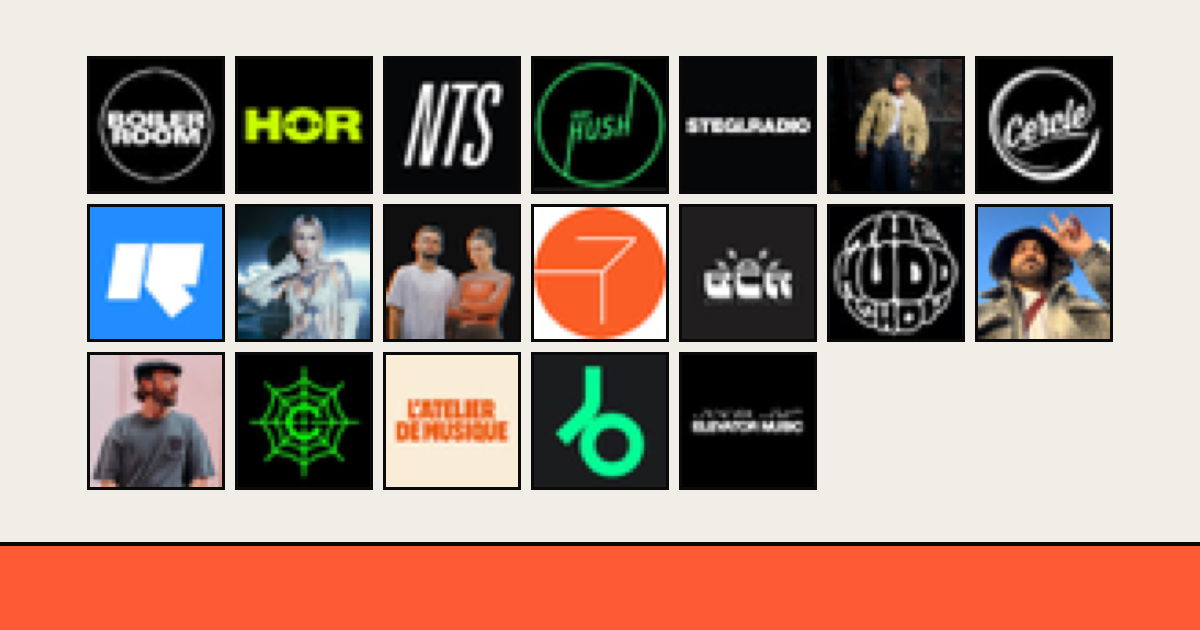
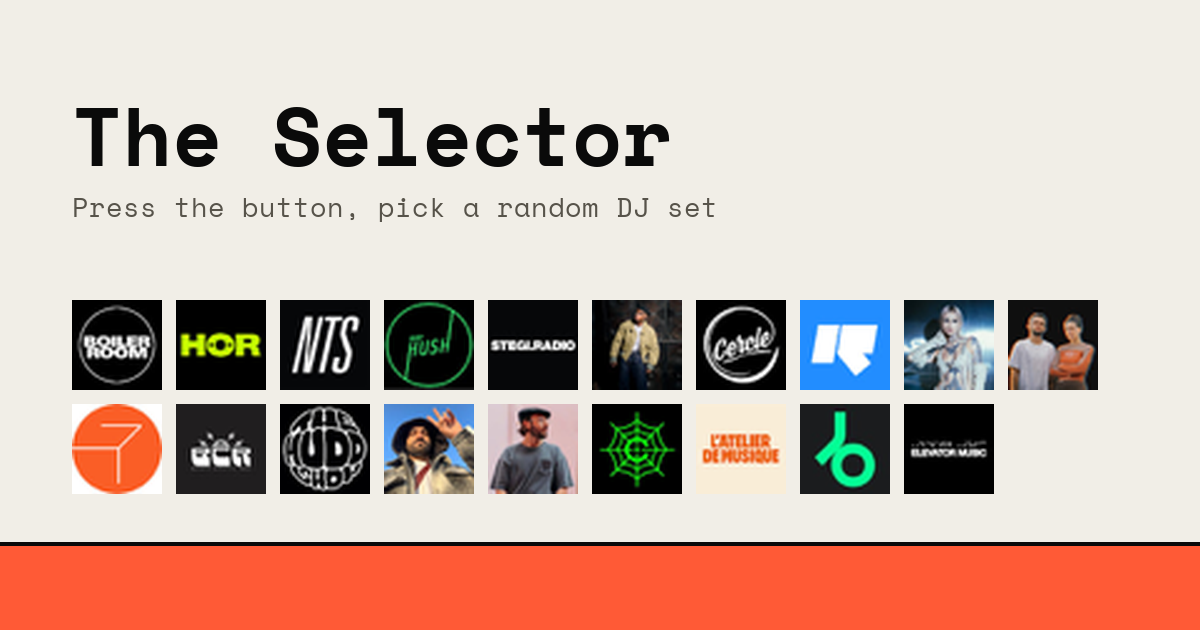
Put words on the Selector share card
The card was a wall of channel logos and nothing else. In a feed that
reads as decoration: the only words came from og:title, as a separate
field, so the image itself never said what it was.

It now carries "The Selector" and "Press the button, pick a random DJ
set" in Space Mono, the site's own mono face, over a smaller logo wall.

Rewritten in Python because the Node version hand-wrote a BMP and had no
way to draw text at all. Pillow reads the PNG logos directly, so the
sips round trip goes too, and dropping the tiles from 132px to 90px
actually helps: the source logos are 36px, so this is a 2.5x upscale
rather than 3.7x.

Space Mono is fetched into a gitignored cache rather than vendored. The
site already serves it from Google Fonts and the only artifact this
script produces, the PNG, is committed.

diff --git a/scripts/build-og-selector.py b/scripts/build-og-selector.py
@@ -1,0 +1,106 @@
+"""Compose the /selector Open Graph image.
+
+    python3 scripts/build-og-selector.py   ->  img/selector/selector-og.png
+
+Replaces the Node version, which hand-wrote a BMP because it had no way to
+draw text: a share card that says nothing reads as decoration in a feed, and
+the title only arrives as a separate meta field. Pillow gives us real font
+rendering, so the card can carry its own name and promise.
+
+Space Mono is the site's mono face. It is fetched into a gitignored cache
+rather than vendored, because the site serves it from Google Fonts and the
+only thing this script produces, the PNG, is committed. Licence: OFL 1.1.
+"""
+
+import os
+import re
+import subprocess
+import sys
+import unicodedata
+
+from PIL import Image, ImageDraw, ImageFont
+
+W, H = 1200, 630
+MARGIN = 72
+BAR = 84                     # acid bar across the bottom
+TILE, GAP = 90, 14
+ROWS = (10, 9)               # logos per row
+
+PAPER = (241, 238, 231)
+INK = (10, 10, 10)
+ACID = (255, 90, 54)
+MUTED = (87, 83, 74)
+
+TITLE = "The Selector"
+CAPTION = "Press the button, pick a random DJ set"
+
+FONT_CACHE = ".cache/fonts"
+FONTS = {
+    "bold": ("SpaceMono-Bold.ttf",
+             "https://github.com/googlefonts/spacemono/raw/main/fonts/ttf/SpaceMono-Bold.ttf"),
+    "regular": ("SpaceMono-Regular.ttf",
+                "https://github.com/googlefonts/spacemono/raw/main/fonts/ttf/SpaceMono-Regular.ttf"),
+}
+
+
+def font(weight, size):
+    name, url = FONTS[weight]
+    path = os.path.join(FONT_CACHE, name)
+    if not os.path.exists(path):
+        os.makedirs(FONT_CACHE, exist_ok=True)
+        print(f"fetching {name}")
+        if subprocess.call(["curl", "-sfL", url, "-o", path]) != 0:
+            sys.exit(f"could not fetch {name} from {url} (offline?)")
+    return ImageFont.truetype(path, size)
+
+
+def slug(value):
+    value = unicodedata.normalize("NFKD", value.lower())
+    value = "".join(c for c in value if not unicodedata.combining(c))
+    return re.sub(r"^-|-$", "", re.sub(r"[^a-z0-9]+", "-", value))
+
+
+def broadcasters():
+    """The channel list lives in selector-channels.mjs; read the names out of it
+    rather than keeping a second copy here that can drift."""
+    source = open("selector-channels.mjs", encoding="utf-8").read()
+    # names are single-quoted except where the name itself contains an
+    # apostrophe ("L'Atelier de Musique"), so match on the opening quote
+    names = [m[1] for m in re.findall(r"""broadcaster:\s*(['"])(.*?)\1""", source)]
+    seen = []
+    for name in names:
+        if name not in seen:
+            seen.append(name)
+    return seen
+
+
+def main():
+    card = Image.new("RGB", (W, H), PAPER)
+    draw = ImageDraw.Draw(card)
+
+    draw.text((MARGIN, 74), TITLE, font=font("bold", 82), fill=INK)
+    draw.text((MARGIN, 186), CAPTION, font=font("regular", 27), fill=MUTED)
+
+    logos = [f"img/selector/{slug(b)}.png" for b in broadcasters()]
+    logos = [p for p in logos if os.path.exists(p)]
+    top = H - BAR - 52 - (len(ROWS) * TILE + (len(ROWS) - 1) * GAP)
+    index = 0
+    for row, count in enumerate(ROWS):
+        y = top + row * (TILE + GAP)
+        for column in range(count):
+            if index >= len(logos):
+                break
+            tile = Image.open(logos[index]).convert("RGB").resize((TILE, TILE), Image.LANCZOS)
+            card.paste(tile, (MARGIN + column * (TILE + GAP), y))
+            index += 1
+
+    draw.rectangle([0, H - BAR - 4, W, H - BAR], fill=INK)
+    draw.rectangle([0, H - BAR, W, H], fill=ACID)
+
+    out = "img/selector/selector-og.png"
+    card.save(out, optimize=True)
+    print(f"{out} - {W}x{H}, {index} logos, {os.path.getsize(out) // 1024} KB")
+
+
+if __name__ == "__main__":
+    main()
